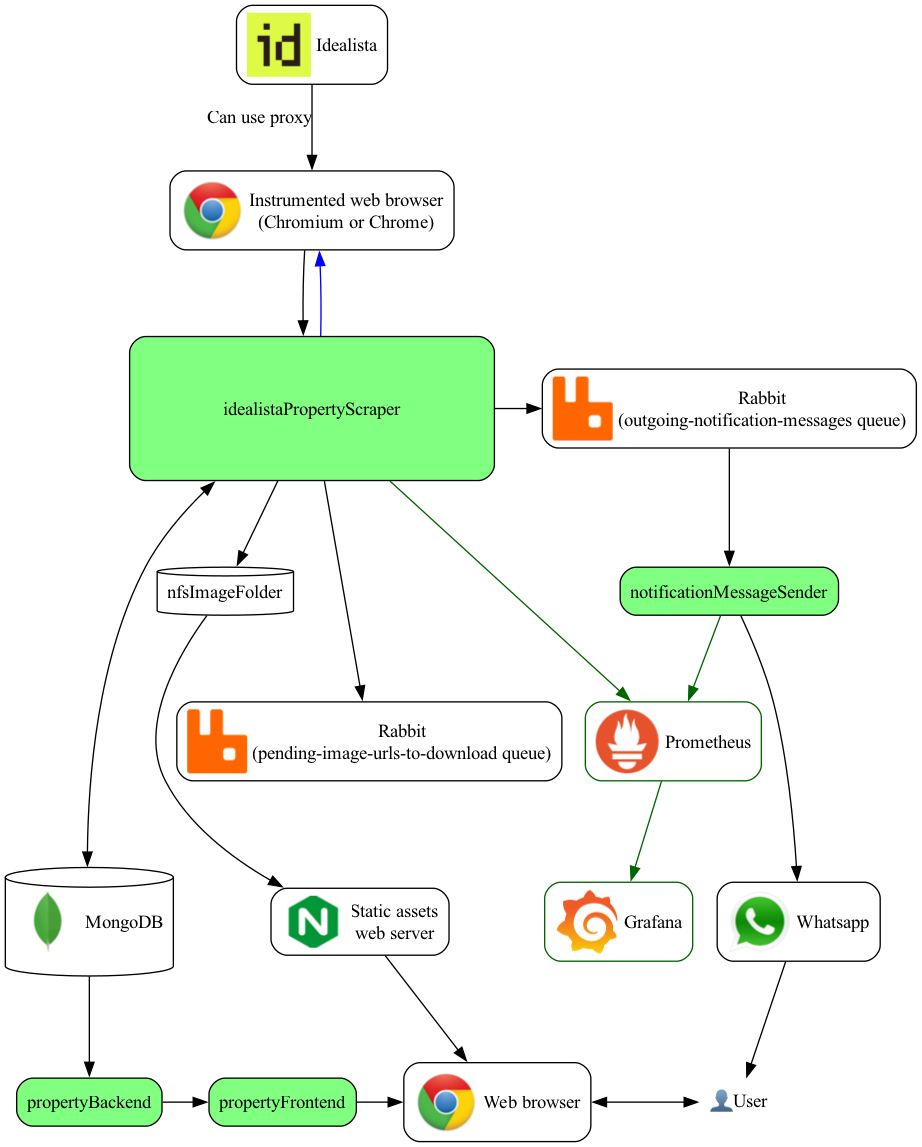
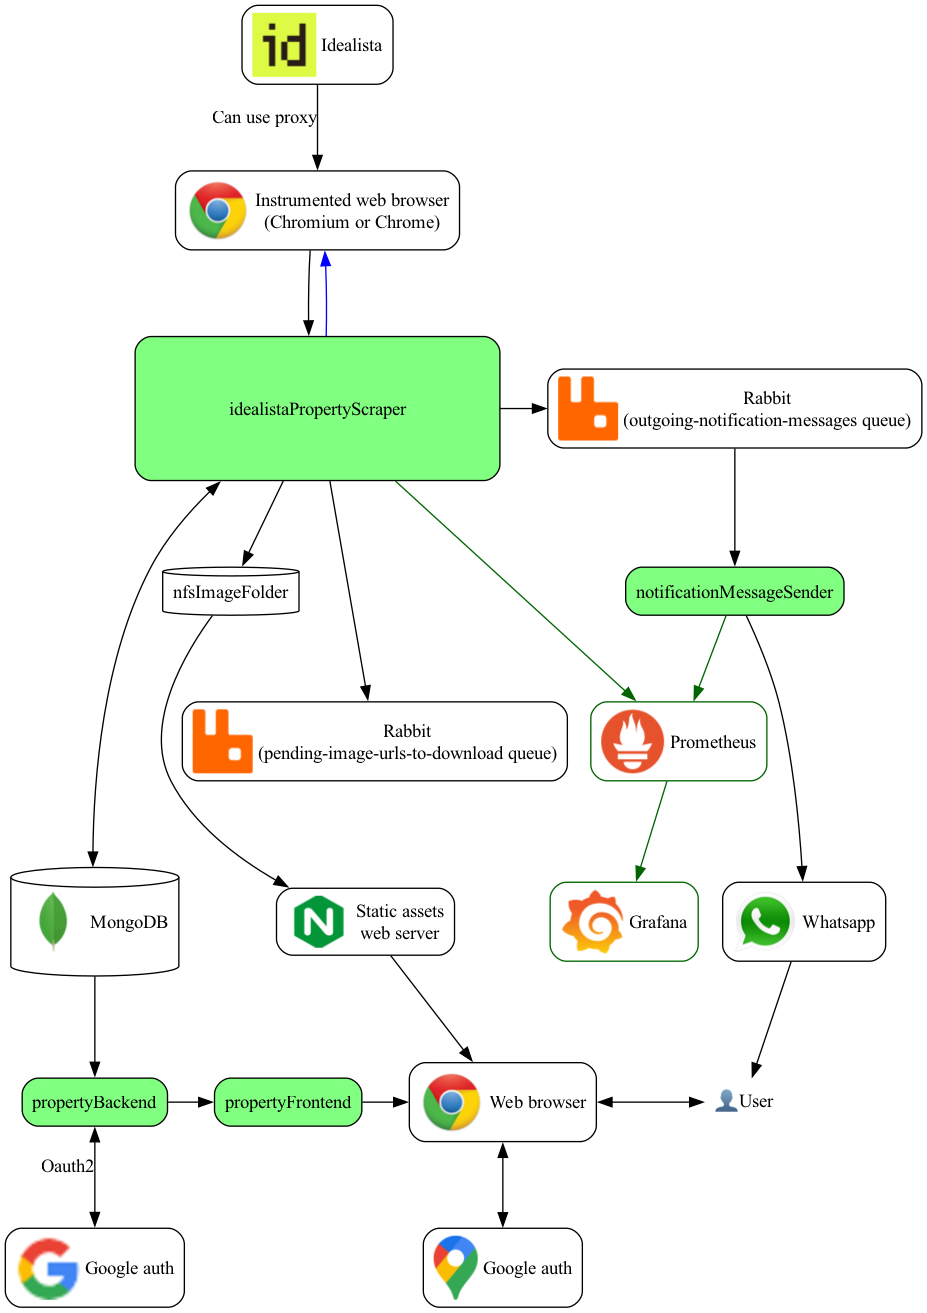
Documentation update

Changed region(s): [[0.0, 0.0, 1.0, 1.0], [0.7289, 0.9154, 0.82, 0.9765]]

diff --git a/README.md b/README.md
@@ -27,10 +27,23 @@ This system comprises several micro services that interacts with each other as s
 - Green arrows shows observability metrics flow.
 - Green background components are the micro services that makes up this project.
 
-The architecture componentes are:
+The internal architecture componentes are:
 
 - [Idealista scraper](idealistaPropertyScraper/README.md): scraper that controls a Google Chrome web browser to retrieve property listings based on a set of filters, extracts each property detail from Idealista, stores the collected information in the MongoDB database, and sends notifications via WhatsApp.
 - [Notification message sender](notificationMessageSender/README.md): consumes messages from RabbitMq that are intended to be sent to a Whatsapp user or group.
+- Property backend: Supports for the property frontend. Includes several queries to property data, end user authentication/authorization and personalization.
+- Property frontend: Angular web application, usable on mobile and optimized for desktop that allows final users to explore local database dump.
+
+The external architecture componentes are:
+- Idealista: Spain based source of information.
+- RabbitMQ: Used for intra-services asynchronous communications.
+- NFS: Used to manage image storage.
+- MongoDB: Used to store property system database.
+- Nginx: Web server for static content.
+- Google auth: for user authentication.
+- Google maps: for interactive access to GIS data.
+- Graphana + Prometheus: used for observability monitoring and alarms.
+- Docker + Kubernetes: used for deployment.
 
 # Frontend
 
@@ -46,7 +59,7 @@ The UI includes tools for the user to perform basic geographic context analysis,
 
 This project depends on several components, such as RabbitMQ, MongoDB, Prometheus, Grafana and other services that interact with micro services. The whole environment can be deployed in several different ways:
 - [Manually in local host](./doc/manualSetup.md): recommended for learning only.
-- Docker images in Kubernetes pods: recommended for deployment to production environment.
+- [Docker images in Kubernetes pods](./doc/dockerK8sSetup.md): recommended for deployment to production environment.
 - [Proxy support (Nginx + ZeroTier)](./doc/proxySupport.md): guide for residential egress through a forward proxy.
 - [Anti-scraper detection measures](./doc/antiScraperDetectionMeasures.md): currently implemented anti-detection strategy summary.
 
